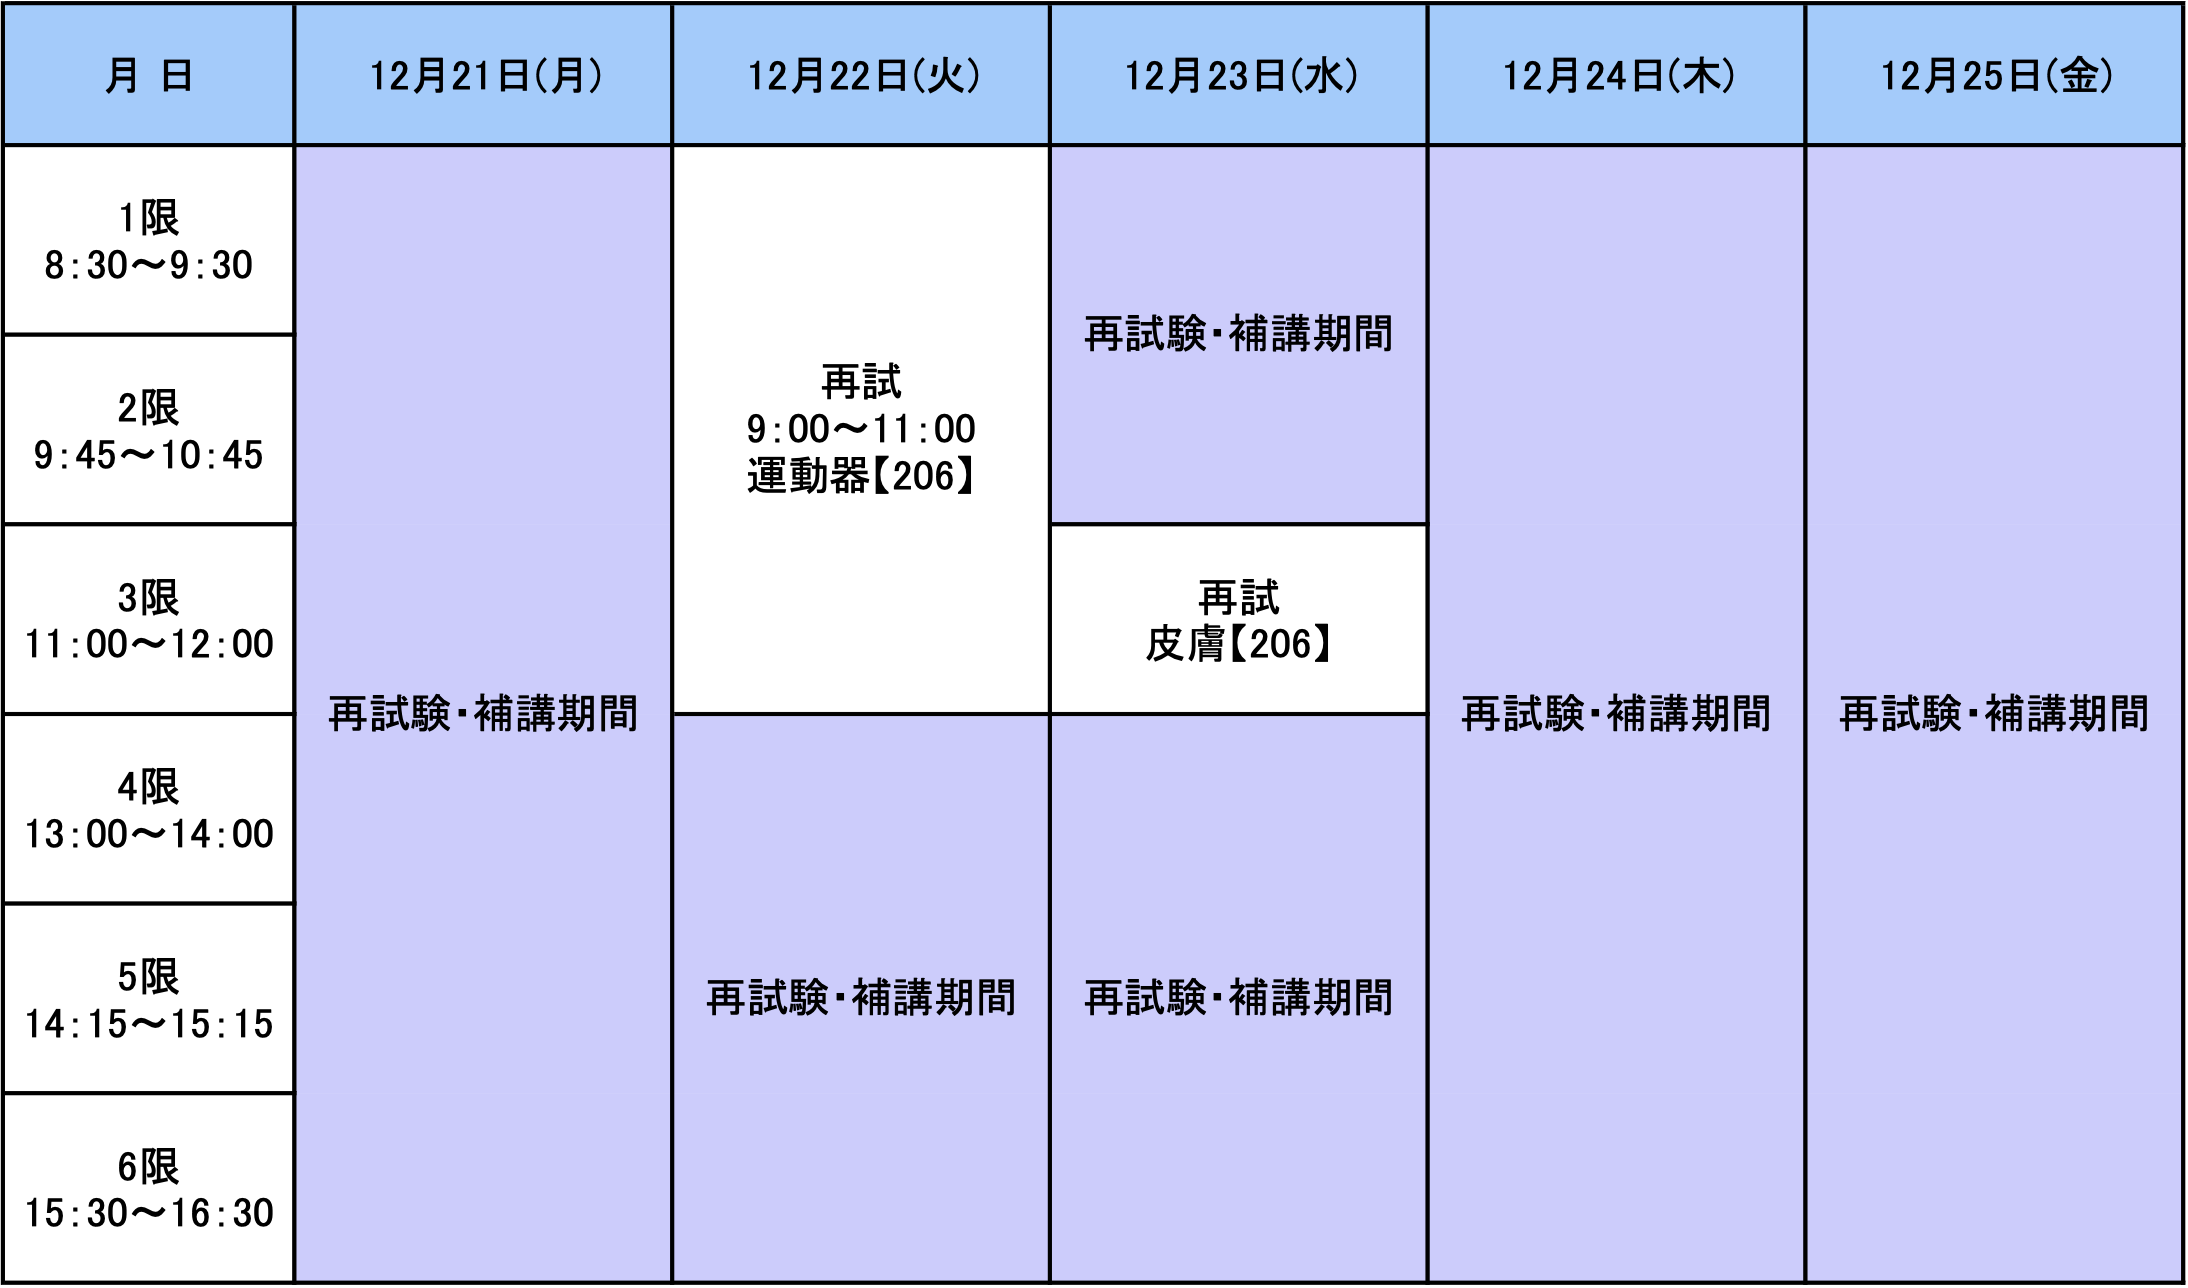
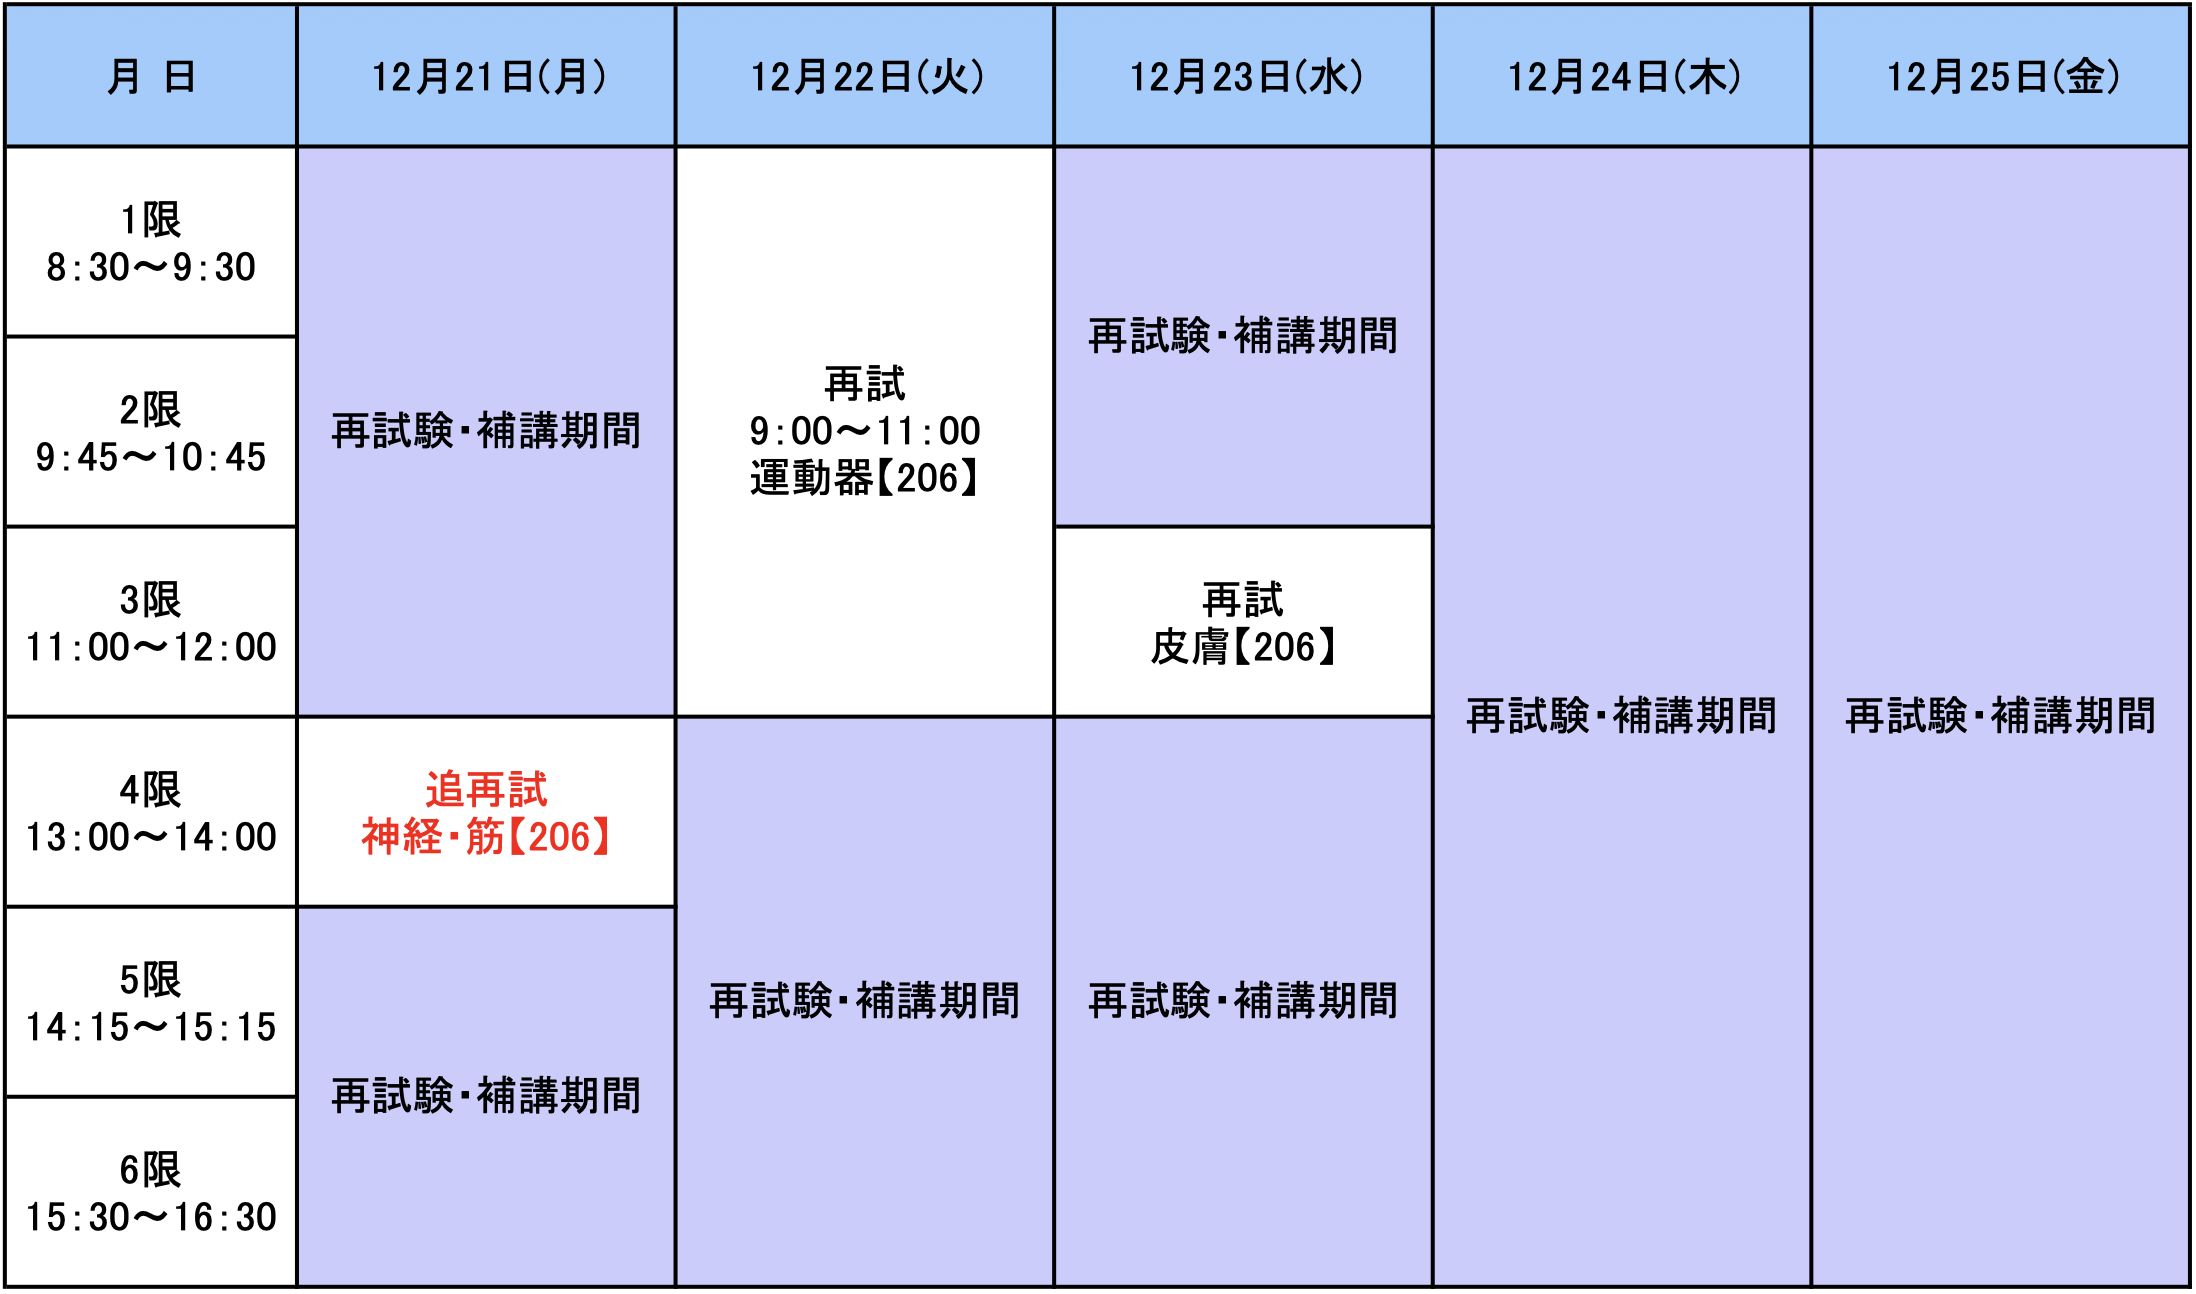
時間割変更 (暫定)

diff --git a/index.html b/index.html
@@ -30,7 +30,7 @@
         </h1>
     </header>
     <main class="page-content">
-    <h3 class="top-object">今週の時間割（10月22日更新）</h3>
+    <h3 class="top-object">今週の時間割（10月29日更新）</h3>
     <div id="nav">
         <button id="prev">&lt;前の週</button>
         <button id="next">次の週&gt;</button>
@@ -138,7 +138,7 @@
     </div>
     </main>
     <script>
-        const IMG_VERSION = "2026-10-22";
+        const IMG_VERSION = "2026-10-29";
         const today = new Date();
         let offset = 0;
 
